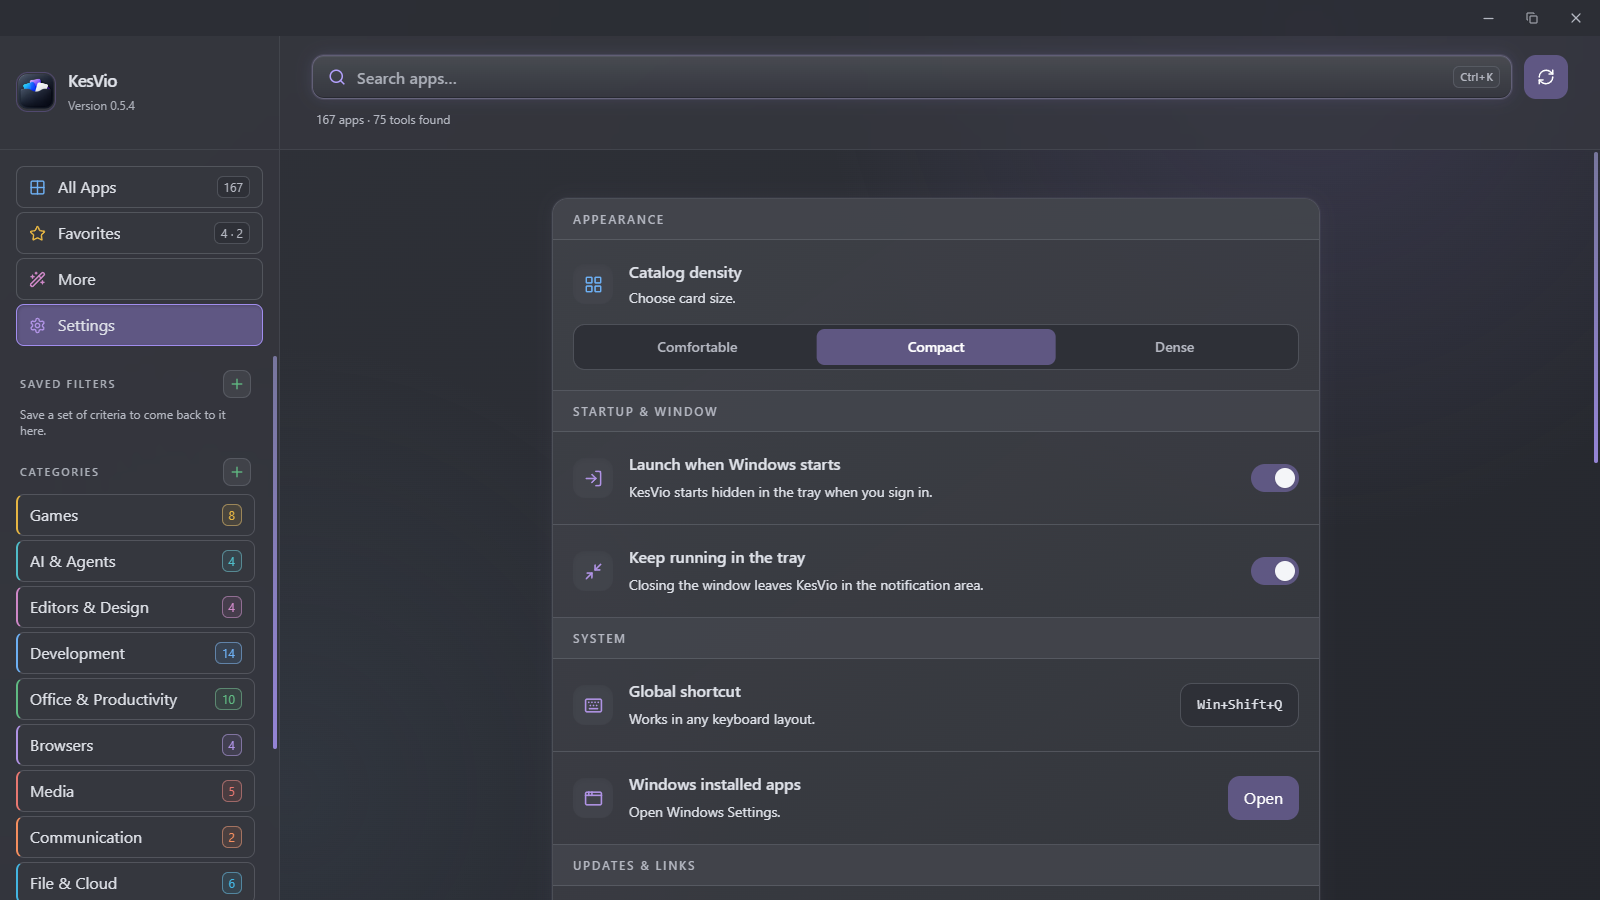
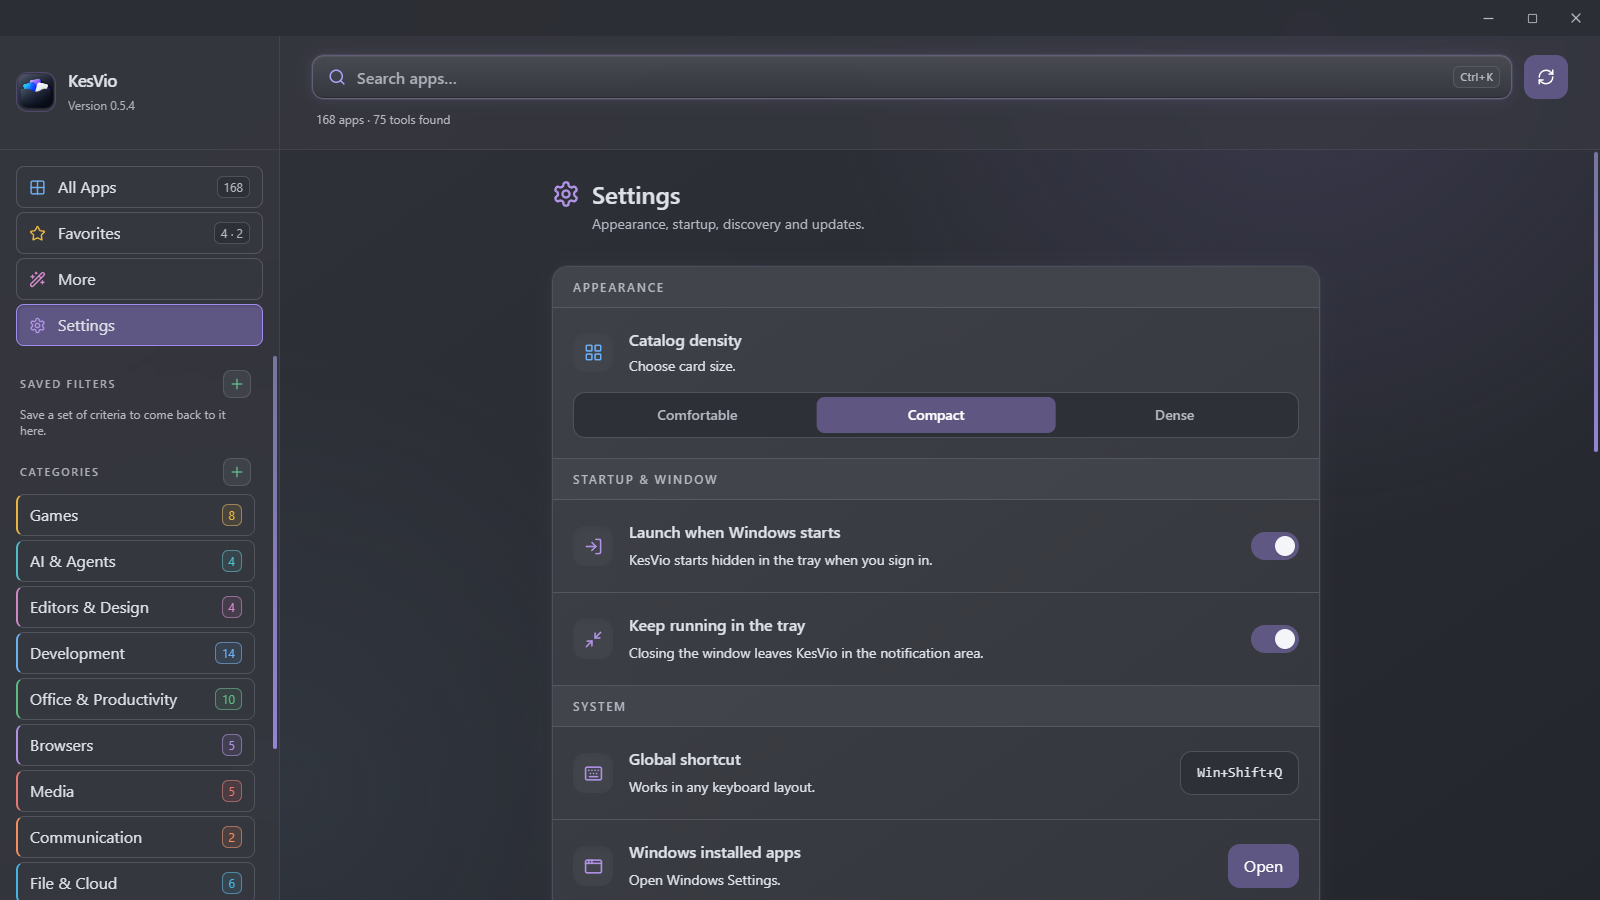
feat(settings): give the Settings page a gear-and-title header like More

diff --git a/src/pages/settings/ui/SettingsPage.tsx b/src/pages/settings/ui/SettingsPage.tsx
@@ -1,3 +1,4 @@
+import { Settings } from 'lucide-react'
 import {
 	type SettingsArea,
 	useSystemSettings,
@@ -44,9 +45,21 @@ export function SettingsPage({
 		) : null
 	return (
 		<section aria-labelledby="settings-title" className="mx-auto max-w-3xl">
-			<h1 id="settings-title" className="sr-only">
-				Settings
-			</h1>
+			<header className="mb-8 flex items-start gap-3">
+				<Settings
+					aria-hidden="true"
+					className="mt-0.5 shrink-0"
+					size={28}
+				/>
+				<div>
+					<h1 id="settings-title" className="text-2xl font-semibold">
+						Settings
+					</h1>
+					<p className="mt-1 text-sm text-(--text-muted)">
+						Appearance, startup, discovery and updates.
+					</p>
+				</div>
+			</header>
 			<GeneralSettings
 				settings={settings}
 				updater={updater}

diff --git a/.github/release-notes.md b/.github/release-notes.md
@@ -12,7 +12,7 @@ This release turns updating into one click from the sidebar, joins the navigatio
 ## Changed
 
 - **No more update banner or update dialog.** The strip above the catalog and the confirmation window with release highlights are gone; the full release notes stay on the GitHub release page. **Settings → Check updates** and the automatic-check switch remain, and a version found there appears in the sidebar pill.
-- **Settings starts with the settings.** The logo, title and version at the top of the page are gone; the sidebar already shows them.
+- **Settings looks like the other pages.** Its header now has a gear icon, the title and a short description, like More; the logo and version moved to the sidebar.
 - **One window frame.** On wide windows the navigation sidebar no longer floats as a rounded island: it sits flush against the window edge in the same translucent material as the header, and the line under the logo meets the line under the search bar across the whole window.
 - **The header keeps its height.** An applied saved filter now appears right after the `apps · tools found` count instead of adding a row, so the catalog no longer shifts down, and the chip is next to what it filters instead of in the far corner.
 - **The platform badge sits on the icon.** The Store, Steam or portable mark moved to the corner of the app icon, so it never covers the app name at any card density.

diff --git a/docs/decisions.md b/docs/decisions.md
@@ -110,7 +110,7 @@ Domain documents describe current behavior. This document retains only history t
 
 **Context:** An available version was announced by a dismissible banner above the catalog, and its action opened a modal with release highlights, package size and an **Update & restart** button. The logo and the version were also repeated in the Settings header.
 
-**Decision:** The banner, the dialog, the dismiss and the visible Settings header (logo, title and version) were withdrawn on 23 September 2026. The version lives under the KesVio name in the sidebar and the drawer, and an available update replaces it with a pill that installs on one click and shows the progress in place.
+**Decision:** The banner, the dialog, the dismiss and the logo and version in the Settings header were withdrawn on 23 September 2026. The version lives under the KesVio name in the sidebar and the drawer, and an available update replaces it with a pill that installs on one click and shows the progress in place.
 
 **Reason:** Two surfaces and a confirmation step said the same thing three times; the pill is always visible where the version already is.
 

diff --git a/docs/ui-and-workflows.md b/docs/ui-and-workflows.md
@@ -198,9 +198,9 @@ bar with the percentage while it runs
 ([Desktop operations](desktop-operations.md) owns the update flow). The pill is
 a sibling of the home button, not nested inside it, and it is absolutely
 positioned over the version line so the coarse-pointer 44 px minimum cannot grow
-it over the name. The Settings page has no visible header: its title is a
-screen-reader-only `h1` that still names the page region, and the logo and
-version live only in the brand block.
+it over the name. The Settings page header matches More: a gear icon, the
+**Settings** title and a one-line description, with no logo and no version; the
+brand block is the only place for both.
 
 ## More and catalog utility pages
 
